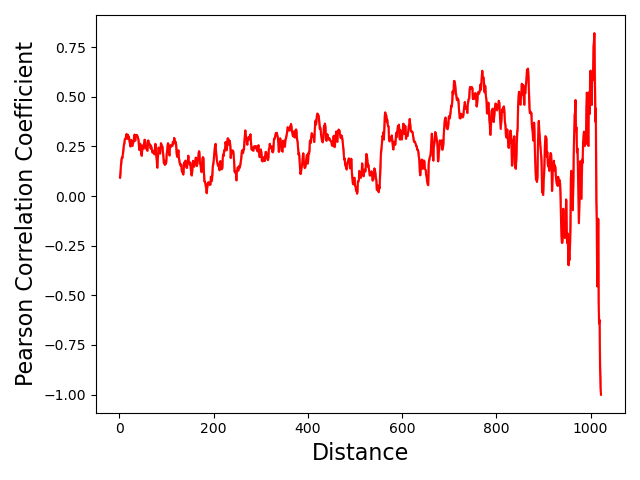
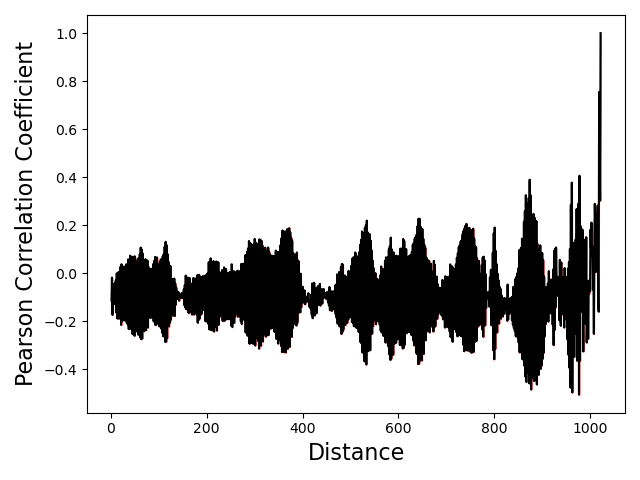
update

diff --git a/neural_net_utils/utils.py b/neural_net_utils/utils.py
@@ -59,10 +59,18 @@ def splitDataset(dataset, opt):
 
 # data processing functions
 @njit
-def x2xx(x, mode = 'add'):
+def x2xx(x, mode = 'mean'):
     # TODO better explanation here
     """
-    Function for converting x to an image.
+    Function for converting x to an image xx.
+
+    For add:
+        xx[k, i, j] = x[i, :] + x[j, :] (element-wise)
+    For mean:
+        xx[k, i, j] = (x[i, :] + x[j, :]) / 2 (element-wise)
+    For append:
+        xx[2k, i, j] = [x[i, :] ... x[j, :]]
+
 
     Inputs:
         x: (n x k) array
@@ -331,7 +339,7 @@ def plotFrequenciesSampleSubplot(freq_arr, dataFolder, diag, k, split = 'type'):
     plt.savefig(os.path.join(dataFolder, 'freq_count_multisample_diag_{}_split_{}.png'.format(diag, split)))
     plt.close()
 
-def plotDistStats(datafolder, diag, ofile, mode = 'freq', stat = 'mean'):
+def Stats(datafolder, diag, ofile, mode = 'freq', stat = 'mean'):
     """
     Function to plot expected interaction frequency as a function of distance for all samples in dataFolder.
 
@@ -517,9 +525,11 @@ def plotDistanceStratifiedPearsonCorrelation(val_dataloader, model, ofile, opt):
         y = y.to(opt.device)
         for j in range(y.shape[0]):
             # manually using batchsize of 1
-            xj = x[j, :, :].unsqueeze(0)
-            yj = y[j, :, :, :].unsqueeze(0)
+            xj = x[j].unsqueeze(0)
+            yj = y[j].unsqueeze(0)
+            print(yj)
             yhat = model(xj)
+            print(yhat)
             yj = yj.cpu().numpy().reshape((opt.n, opt.n))
             yhat = yhat.cpu().detach().numpy()
 
@@ -536,7 +546,7 @@ def plotDistanceStratifiedPearsonCorrelation(val_dataloader, model, ofile, opt):
     p_mean = np.mean(p_arr, axis = 0)
     p_std = np.std(p_arr, axis = 0)
 
-    plt.plot(np.arange(opt.n-1), p_mean, color = 'red')
+    plt.plot(np.arange(opt.n-1), p_mean, color = 'black')
     plt.fill_between(np.arange(opt.n-1), p_mean + p_std, p_mean - p_std, color = 'red', alpha = 0.5)
     plt.xlabel('Distance', fontsize = 16)
     plt.ylabel('Pearson Correlation Coefficient', fontsize = 16)
@@ -558,8 +568,8 @@ def comparePCA(val_dataloader, model, opt):
         y = y.to(opt.device)
         for j in range(y.shape[0]):
             # manually using batchsize of 1
-            x = x[j, :, :].unsqueeze(0)
-            y = y[j, :, :, :].unsqueeze(0)
+            x = x[j].unsqueeze(0)
+            y = y[j].unsqueeze(0)
             yhat = model(x)
             y = y.cpu().numpy().reshape((opt.n, opt.n))
             yhat = yhat.cpu().detach().numpy()

diff --git a/neural_net_utils/dataset_classes.py b/neural_net_utils/dataset_classes.py
@@ -18,19 +18,19 @@ class Names(Dataset):
 
 
 class Sequences2Contacts(Dataset):
-    def __init__(self, dirname, toxx, y_norm, x_reshape = False,
+    def __init__(self, dirname, toxx, y_norm, x_reshape = False, ydtype = torch.float32,
                 y_reshape = True, names = False, crop = None, min_sample = 0):
         super(Sequences2Contacts, self).__init__()
         self.toxx = toxx
         self.y_norm = y_norm
         self.x_reshape = x_reshape
+        self.ydtype = ydtype
         self.y_reshape = y_reshape
         self.names = names
         self.crop = crop
         self.paths = sorted(make_dataset(dirname, minSample = min_sample))
 
     def __getitem__(self, index):
-        ydtype = torch.float32 # default dtype
         if self.y_norm is None:
             y_path = os.path.join(self.paths[index], 'y.npy')
             y = np.load(y_path)
@@ -40,7 +40,6 @@ class Sequences2Contacts(Dataset):
         elif self.y_norm == 'prcnt':
             y_path = os.path.join(self.paths[index], 'y_prcnt_norm.npy')
             y = np.load(y_path)
-            ydtype = torch.int64
         else:
             print("Warning: Unknown norm: {}".format(self.y_norm))
             y_path = os.path.join(self.paths[index], 'y.npy')
@@ -66,9 +65,8 @@ class Sequences2Contacts(Dataset):
                 # treat x as 1d image with k channels
                 x = x.T
 
-        x = torch.tensor(x)
-        y = torch.tensor(y).type(ydtype)
-        print(y)
+        x = torch.tensor(x, dtype = torch.float32)
+        y = torch.tensor(y, dtype = self.ydtype)
         if self.names:
             return x, y, self.paths[index]
         else:

diff --git a/UNet.py b/UNet.py
@@ -1,3 +1,4 @@
+import torch
 import torch.nn as nn
 import torch.nn.functional as F
 from neural_net_utils.networks import UNet
@@ -27,19 +28,23 @@ def main():
     opt = argparseSetup()
     print(opt)
 
+    opt.loss = 'mse'
+    opt.y_norm = 'diag'
     if opt.loss == 'cross_entropy':
         assert opt.y_norm == 'prcnt', 'must use percentile normalization with cross entropy'
         opt.y_reshape = False
         opt.criterion = F.cross_entropy
+        opt.ydtype = torch.int64
         model = UNet(nf_in = 2, nf_out = 10, nf = opt.nf, out_act = None)
     else:
         opt.criterion = F.mse_loss
-        model = UNet(nf_in = 2, nf_out = 1, nf = opt.nf, out_act = nn.Sigmoid())
+        model = UNet(nf_in = 2, nf_out = 1, nf = opt.nf, out_act = None)
         opt.y_reshape = True
+        opt.ydtype = torch.float32
 
 
     seq2ContactData = Sequences2Contacts(opt.data_folder, toxx = True,
-                                        y_norm = opt.y_norm,
+                                        y_norm = opt.y_norm, ydtype = opt.ydtype,
                                         y_reshape = opt.y_reshape, crop = opt.crop)
 
     core_test_train(seq2ContactData, model, opt)

diff --git a/preprocess_data.py b/preprocess_data.py
@@ -10,7 +10,7 @@ import os
 def setupParser():
     parser = argparse.ArgumentParser(description='Base parser')
     parser.add_argument('--input_folder', type=str, default='dataset_04_18_21', help='Location of input data')
-    parser.add_argument('--output_folder', type=str, default='test', help='Location to write data to')
+    parser.add_argument('--output_folder', type=str, default='dataset_04_18_21', help='Location to write data to')
     parser.add_argument('--num_workers', type=int, default=5, help='Number of processes to use')
     parser.add_argument('--k', type=int, default=2, help='Number of epigenetic marks')
     parser.add_argument('--n', type=int, default=1024, help='Number of particles')
@@ -101,8 +101,8 @@ def process_data(opt):
 
 def process_sample_save(in_path, out_path, k, n):
     # check if sample needs to be processed
-    if os.path.exists(os.path.join(out_path, 'x.npy')):
-        return
+    # if os.path.exists(os.path.join(out_path, 'x.npy')):
+    #     return
 
     x = np.zeros((n, k))
     for i in range(1, k + 1):
